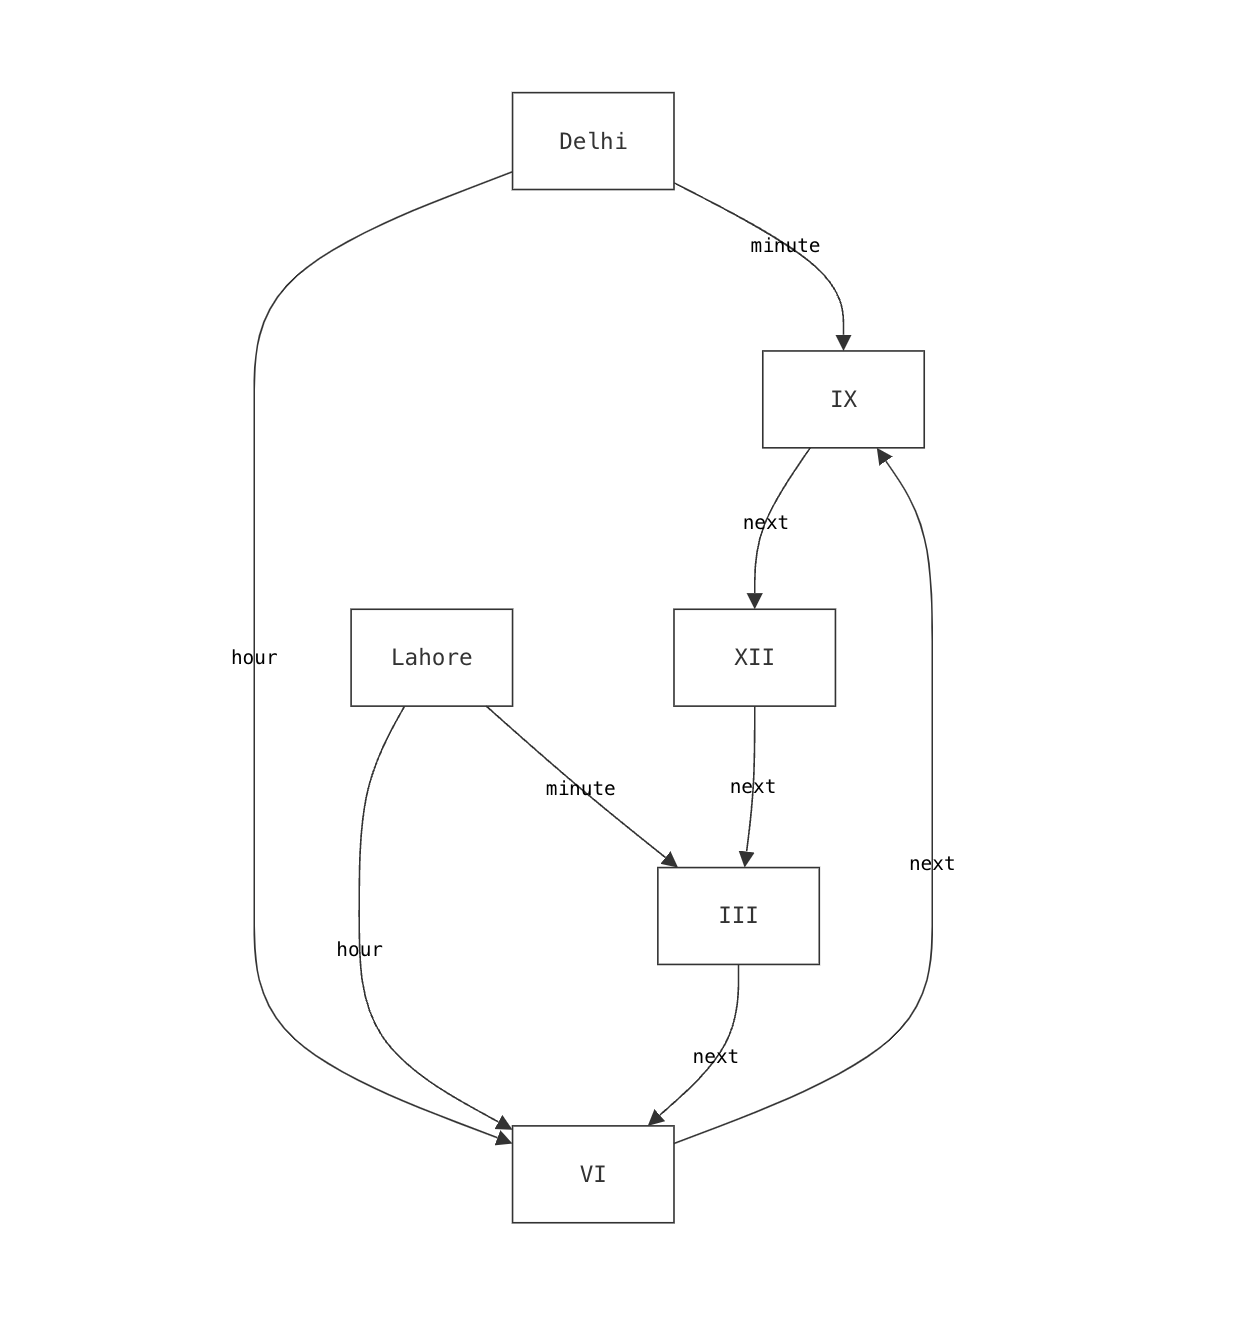
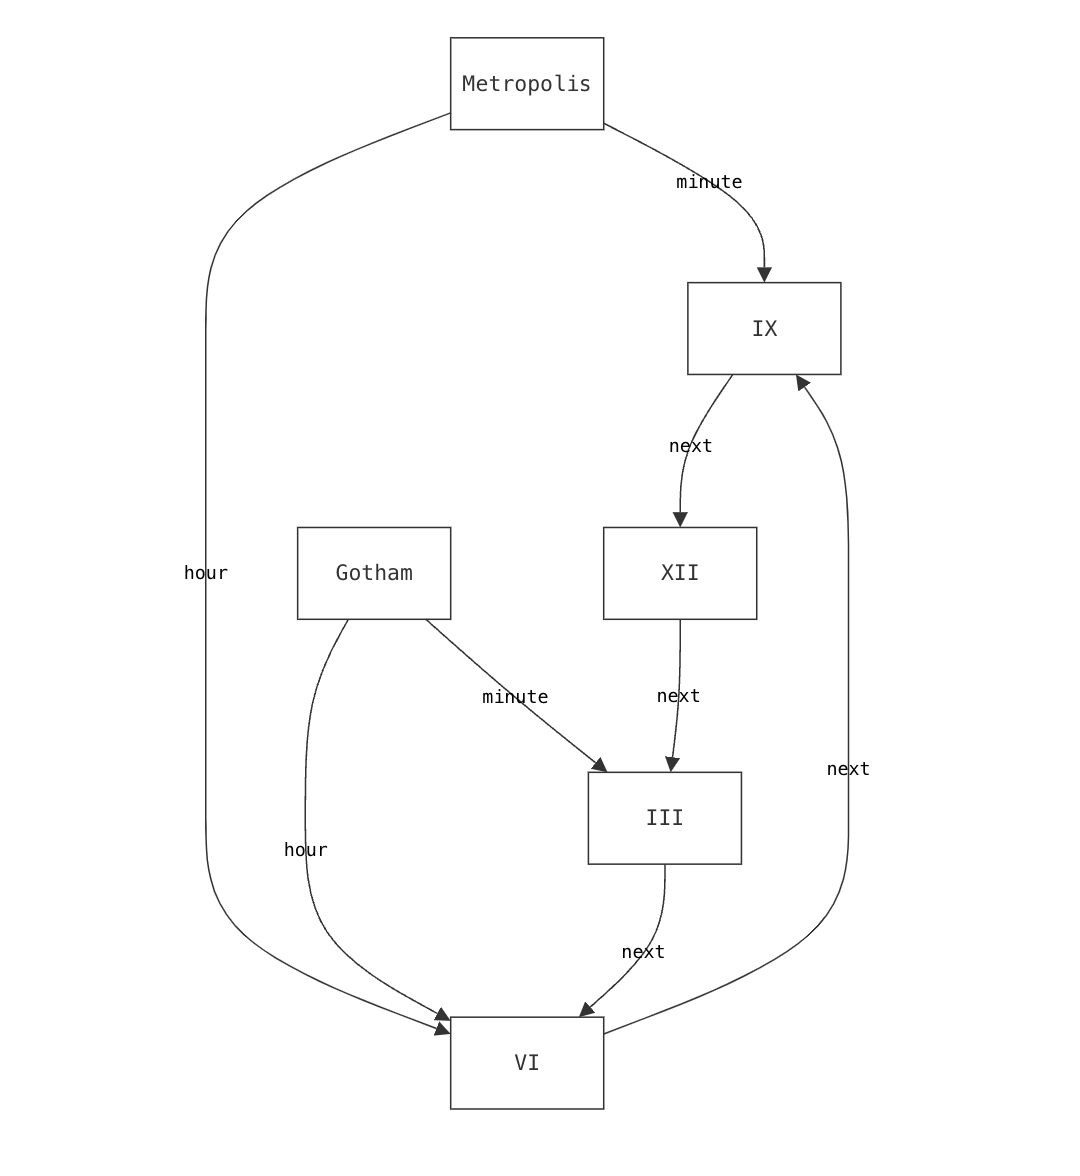
CHanged

diff --git a/diagrams/clock-diagram.html b/diagrams/clock-diagram.html
@@ -147,8 +147,8 @@
                         .handleDisconnected(true)
                         .size([width, height]);
 
-                    var nodes = [{"id":"IX","color":"#A19551","attributes":{},"width":70,"height":45,"x":400,"y":400},{"id":"XII","color":"#C4A637","attributes":{},"width":70,"height":45,"x":400,"y":400},{"id":"III","color":"#5ACB2F","attributes":{},"width":70,"height":45,"x":400,"y":400},{"id":"VI","color":"#3E1CD1","attributes":{},"width":70,"height":45,"x":400,"y":400},{"id":"Delhi","color":"#A20E80","attributes":{},"width":70,"height":45,"x":400,"y":400},{"id":"Lahore","color":"#A20E80","attributes":{},"width":70,"height":45,"x":400,"y":400},{"id":"_next_0","color":"transparent","attributes":{},"width":70,"height":45,"x":400,"y":400}];
-                    var edges = [{"source":0,"target":1,"relName":"next","id":"Mark<:next:IX->XII","label":"next"},{"source":1,"target":2,"relName":"next","id":"Mark<:next:XII->III","label":"next"},{"source":2,"target":3,"relName":"next","id":"Mark<:next:III->VI","label":"next"},{"source":3,"target":0,"relName":"next","id":"Mark<:next:VI->IX","label":"next"},{"source":4,"target":3,"relName":"hour","id":"City<:hour:Delhi->VI","label":"hour"},{"source":5,"target":3,"relName":"hour","id":"City<:hour:Lahore->VI","label":"hour"},{"source":4,"target":0,"relName":"minute","id":"City<:minute:Delhi->IX","label":"minute"},{"source":5,"target":2,"relName":"minute","id":"City<:minute:Lahore->III","label":"minute"}];
+                    var nodes = [{"id":"IX","color":"#6708A3","attributes":{},"width":70,"height":45,"x":400,"y":400},{"id":"XII","color":"#76F188","attributes":{},"width":70,"height":45,"x":400,"y":400},{"id":"III","color":"#C5C583","attributes":{},"width":70,"height":45,"x":400,"y":400},{"id":"VI","color":"#909C9B","attributes":{},"width":70,"height":45,"x":400,"y":400},{"id":"Metropolis","color":"#3D6CF7","attributes":{},"width":70,"height":45,"x":400,"y":400},{"id":"Gotham","color":"#3D6CF7","attributes":{},"width":70,"height":45,"x":400,"y":400},{"id":"_next_0","color":"transparent","attributes":{},"width":70,"height":45,"x":400,"y":400}];
+                    var edges = [{"source":0,"target":1,"relName":"next","id":"Mark<:next:IX->XII","label":"next"},{"source":1,"target":2,"relName":"next","id":"Mark<:next:XII->III","label":"next"},{"source":2,"target":3,"relName":"next","id":"Mark<:next:III->VI","label":"next"},{"source":3,"target":0,"relName":"next","id":"Mark<:next:VI->IX","label":"next"},{"source":4,"target":3,"relName":"hour","id":"City<:hour:Metropolis->VI","label":"hour"},{"source":5,"target":3,"relName":"hour","id":"City<:hour:Gotham->VI","label":"hour"},{"source":4,"target":0,"relName":"minute","id":"City<:minute:Metropolis->IX","label":"minute"},{"source":5,"target":2,"relName":"minute","id":"City<:minute:Gotham->III","label":"minute"}];
                     var constraints = [{"axis":"x","left":6,"right":1,"gap":100},{"axis":"y","left":1,"right":6,"gap":0},{"axis":"x","left":6,"right":2,"gap":6.123233995736766e-15},{"axis":"y","left":6,"right":2,"gap":100},{"axis":"x","left":3,"right":6,"gap":100},{"axis":"y","left":6,"right":3,"gap":1.2246467991473532e-14},{"axis":"x","left":0,"right":6,"gap":1.8369701987210297e-14},{"axis":"y","left":0,"right":6,"gap":100},{"axis":"y","left":3,"right":4,"gap":15},{"axis":"y","left":3,"right":5,"gap":15},{"axis":"y","left":0,"right":4,"gap":15},{"axis":"y","left":2,"right":5,"gap":15}];
                     var groups = [];
                     function getNodeIndex(nodeId) {
@@ -622,7 +622,7 @@
     },
     "right": {
       "id": "XII",
-      "color": "#C4A637",
+      "color": "#76F188",
       "groups": [],
       "attributes": {}
     },
@@ -631,7 +631,7 @@
   {
     "top": {
       "id": "XII",
-      "color": "#C4A637",
+      "color": "#76F188",
       "groups": [],
       "attributes": {}
     },
@@ -652,7 +652,7 @@
     },
     "right": {
       "id": "III",
-      "color": "#5ACB2F",
+      "color": "#C5C583",
       "groups": [],
       "attributes": {}
     },
@@ -667,7 +667,7 @@
     },
     "bottom": {
       "id": "III",
-      "color": "#5ACB2F",
+      "color": "#C5C583",
       "groups": [],
       "attributes": {}
     },
@@ -676,7 +676,7 @@
   {
     "left": {
       "id": "VI",
-      "color": "#3E1CD1",
+      "color": "#909C9B",
       "groups": [],
       "attributes": {}
     },
@@ -697,7 +697,7 @@
     },
     "bottom": {
       "id": "VI",
-      "color": "#3E1CD1",
+      "color": "#909C9B",
       "groups": [],
       "attributes": {}
     },
@@ -706,7 +706,7 @@
   {
     "left": {
       "id": "IX",
-      "color": "#A19551",
+      "color": "#6708A3",
       "groups": [],
       "attributes": {}
     },
@@ -721,7 +721,7 @@
   {
     "top": {
       "id": "IX",
-      "color": "#A19551",
+      "color": "#6708A3",
       "groups": [],
       "attributes": {}
     },
@@ -736,13 +736,13 @@
   {
     "top": {
       "id": "VI",
-      "color": "#3E1CD1",
+      "color": "#909C9B",
       "groups": [],
       "attributes": {}
     },
     "bottom": {
-      "id": "Delhi",
-      "color": "#A20E80",
+      "id": "Metropolis",
+      "color": "#3D6CF7",
       "groups": [],
       "attributes": {}
     },
@@ -751,13 +751,13 @@
   {
     "top": {
       "id": "VI",
-      "color": "#3E1CD1",
+      "color": "#909C9B",
       "groups": [],
       "attributes": {}
     },
     "bottom": {
-      "id": "Lahore",
-      "color": "#A20E80",
+      "id": "Gotham",
+      "color": "#3D6CF7",
       "groups": [],
       "attributes": {}
     },
@@ -766,13 +766,13 @@
   {
     "top": {
       "id": "IX",
-      "color": "#A19551",
+      "color": "#6708A3",
       "groups": [],
       "attributes": {}
     },
     "bottom": {
-      "id": "Delhi",
-      "color": "#A20E80",
+      "id": "Metropolis",
+      "color": "#3D6CF7",
       "groups": [],
       "attributes": {}
     },
@@ -781,13 +781,13 @@
   {
     "top": {
       "id": "III",
-      "color": "#5ACB2F",
+      "color": "#C5C583",
       "groups": [],
       "attributes": {}
     },
     "bottom": {
-      "id": "Lahore",
-      "color": "#A20E80",
+      "id": "Gotham",
+      "color": "#3D6CF7",
       "groups": [],
       "attributes": {}
     },
@@ -800,37 +800,37 @@
             <pre id="nodes"> [
   {
     "id": "IX",
-    "color": "#A19551",
+    "color": "#6708A3",
     "groups": [],
     "attributes": {}
   },
   {
     "id": "XII",
-    "color": "#C4A637",
+    "color": "#76F188",
     "groups": [],
     "attributes": {}
   },
   {
     "id": "III",
-    "color": "#5ACB2F",
+    "color": "#C5C583",
     "groups": [],
     "attributes": {}
   },
   {
     "id": "VI",
-    "color": "#3E1CD1",
+    "color": "#909C9B",
     "groups": [],
     "attributes": {}
   },
   {
-    "id": "Delhi",
-    "color": "#A20E80",
+    "id": "Metropolis",
+    "color": "#3D6CF7",
     "groups": [],
     "attributes": {}
   },
   {
-    "id": "Lahore",
-    "color": "#A20E80",
+    "id": "Gotham",
+    "color": "#3D6CF7",
     "groups": [],
     "attributes": {}
   },
@@ -846,13 +846,13 @@
   {
     "source": {
       "id": "IX",
-      "color": "#A19551",
+      "color": "#6708A3",
       "groups": [],
       "attributes": {}
     },
     "target": {
       "id": "XII",
-      "color": "#C4A637",
+      "color": "#76F188",
       "groups": [],
       "attributes": {}
     },
@@ -863,13 +863,13 @@
   {
     "source": {
       "id": "XII",
-      "color": "#C4A637",
+      "color": "#76F188",
       "groups": [],
       "attributes": {}
     },
     "target": {
       "id": "III",
-      "color": "#5ACB2F",
+      "color": "#C5C583",
       "groups": [],
       "attributes": {}
     },
@@ -880,13 +880,13 @@
   {
     "source": {
       "id": "III",
-      "color": "#5ACB2F",
+      "color": "#C5C583",
       "groups": [],
       "attributes": {}
     },
     "target": {
       "id": "VI",
-      "color": "#3E1CD1",
+      "color": "#909C9B",
       "groups": [],
       "attributes": {}
     },
@@ -897,13 +897,13 @@
   {
     "source": {
       "id": "VI",
-      "color": "#3E1CD1",
+      "color": "#909C9B",
       "groups": [],
       "attributes": {}
     },
     "target": {
       "id": "IX",
-      "color": "#A19551",
+      "color": "#6708A3",
       "groups": [],
       "attributes": {}
     },
@@ -913,71 +913,71 @@
   },
   {
     "source": {
-      "id": "Delhi",
-      "color": "#A20E80",
+      "id": "Metropolis",
+      "color": "#3D6CF7",
       "groups": [],
       "attributes": {}
     },
     "target": {
       "id": "VI",
-      "color": "#3E1CD1",
+      "color": "#909C9B",
       "groups": [],
       "attributes": {}
     },
     "label": "hour",
     "relationName": "hour",
-    "id": "City<:hour:Delhi->VI"
+    "id": "City<:hour:Metropolis->VI"
   },
   {
     "source": {
-      "id": "Lahore",
-      "color": "#A20E80",
+      "id": "Gotham",
+      "color": "#3D6CF7",
       "groups": [],
       "attributes": {}
     },
     "target": {
       "id": "VI",
-      "color": "#3E1CD1",
+      "color": "#909C9B",
       "groups": [],
       "attributes": {}
     },
     "label": "hour",
     "relationName": "hour",
-    "id": "City<:hour:Lahore->VI"
+    "id": "City<:hour:Gotham->VI"
   },
   {
     "source": {
-      "id": "Delhi",
-      "color": "#A20E80",
+      "id": "Metropolis",
+      "color": "#3D6CF7",
       "groups": [],
       "attributes": {}
     },
     "target": {
       "id": "IX",
-      "color": "#A19551",
+      "color": "#6708A3",
       "groups": [],
       "attributes": {}
     },
     "label": "minute",
     "relationName": "minute",
-    "id": "City<:minute:Delhi->IX"
+    "id": "City<:minute:Metropolis->IX"
   },
   {
     "source": {
-      "id": "Lahore",
-      "color": "#A20E80",
+      "id": "Gotham",
+      "color": "#3D6CF7",
       "groups": [],
       "attributes": {}
     },
     "target": {
       "id": "III",
-      "color": "#5ACB2F",
+      "color": "#C5C583",
       "groups": [],
       "attributes": {}
     },
     "label": "minute",
     "relationName": "minute",
-    "id": "City<:minute:Lahore->III"
+    "id": "City<:minute:Gotham->III"
   }
 ];</pre>
 
